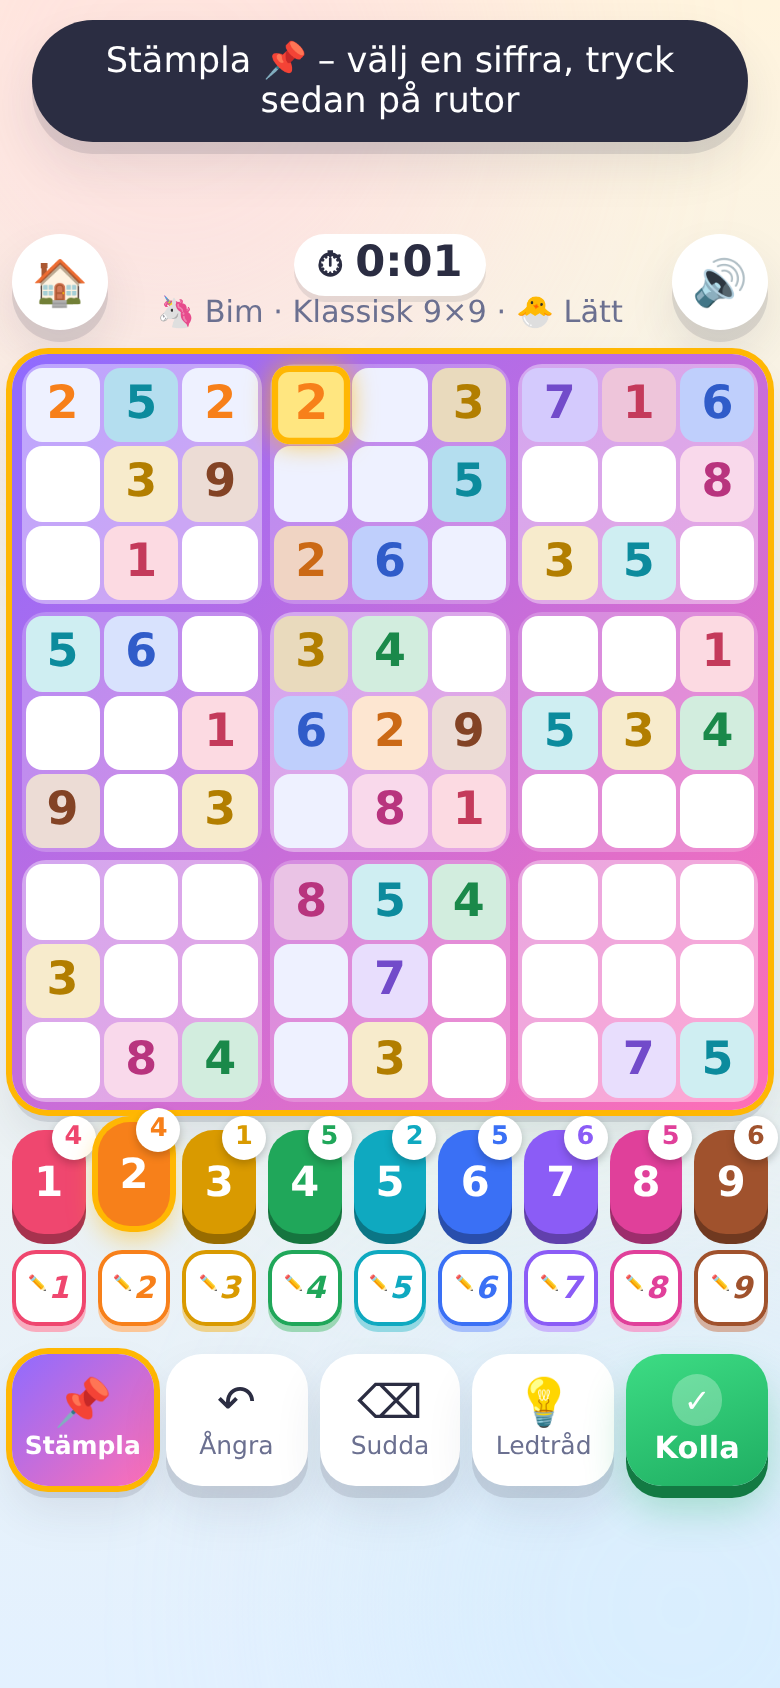
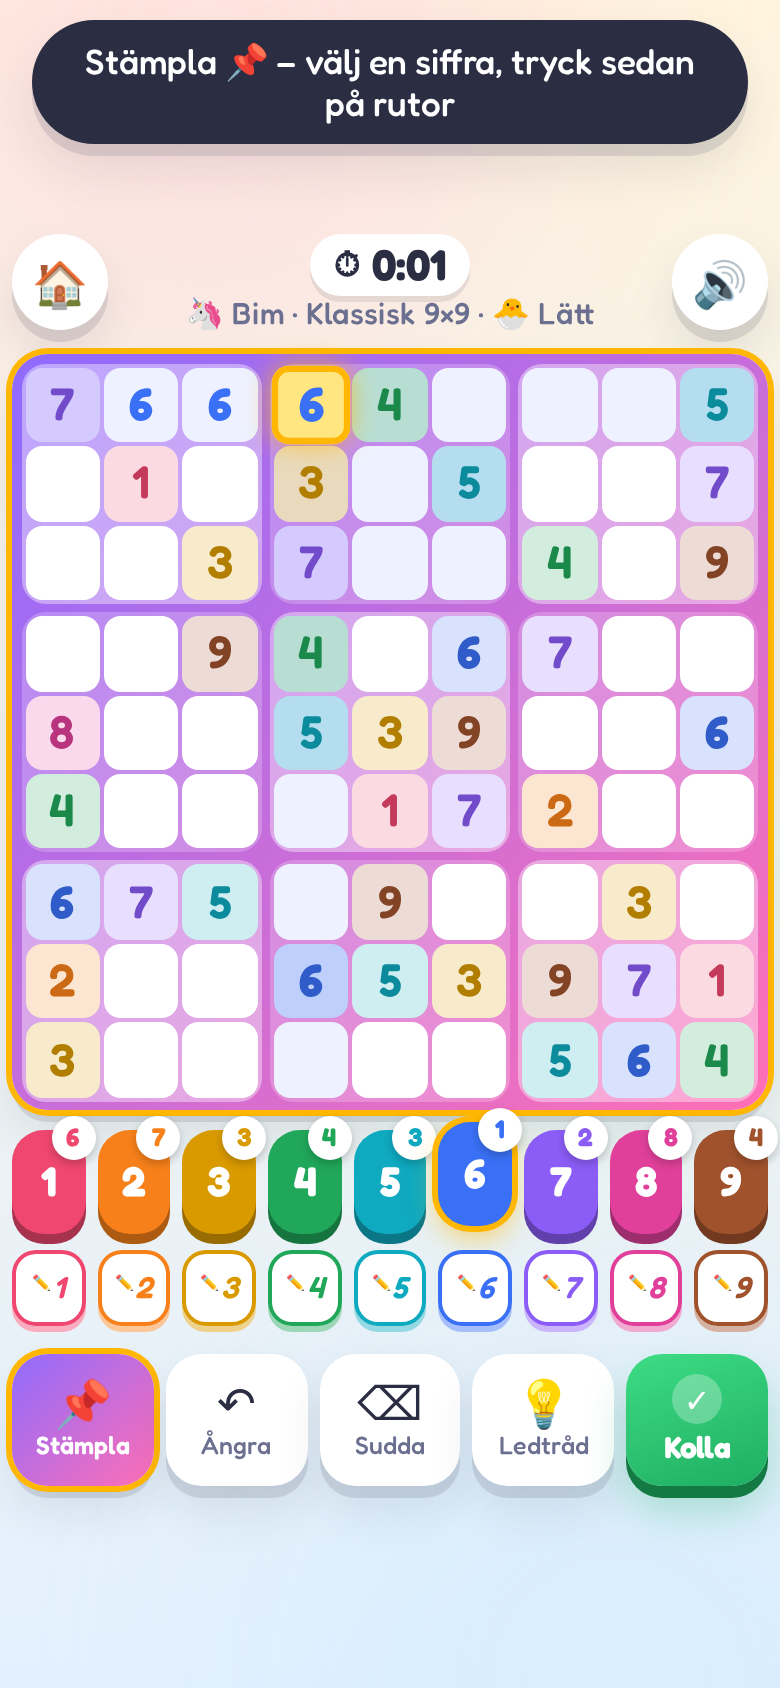
Keep the stamp when its button is tapped again
Claude-Session: https://claude.ai/code/session_01283hxX1dhrWVTC3UE74W9x

diff --git a/js/app.js b/js/app.js
@@ -1199,8 +1199,9 @@
     if (on) toast('Stämpla 📌 – välj en siffra, tryck sedan på rutor');
   }
 
+  // Tapping the chosen stamp again keeps it; only another choice replaces it.
   function chooseStamp(d, note) {
-    stamp = stamp && stamp.d === d && stamp.note === note ? null : { d, note };
+    stamp = { d, note };
     renderStamp(); // the ring on the pad shows the stamp; no message needed
   }
 
@@ -1208,7 +1209,7 @@
   // the selected cell.
   function eraseButton() {
     if (!stampMode) return erase();
-    stamp = stamp && stamp.erase ? null : { erase: true };
+    stamp = { erase: true };
     renderStamp();
   }
 

diff --git a/README.md b/README.md
@@ -39,8 +39,9 @@ no build step, no dependencies, works offline and collects no data.
 * **Stämpla (stamp)**: turn on 📌, pick a number on the answer or note row,
   then every square you tap gets that number (tap again to remove it).
   Long-press a square for the other kind: an answer stamp adds a note, a note
-  stamp writes the answer. Sudda can
-  be stamped too, to clear square after square.
+  stamp writes the answer. Sudda can be stamped too, to clear square after
+  square. Tapping the chosen stamp again keeps it; pick another or turn off
+  📌 to change.
   Numbers equal to the selection or the stamp are shown in bold.
 * **Pause and resume**: every unfinished game is saved on the device.
   *Fortsätt* jumps back into the latest one, and *📂 Sparade spel* lists all
